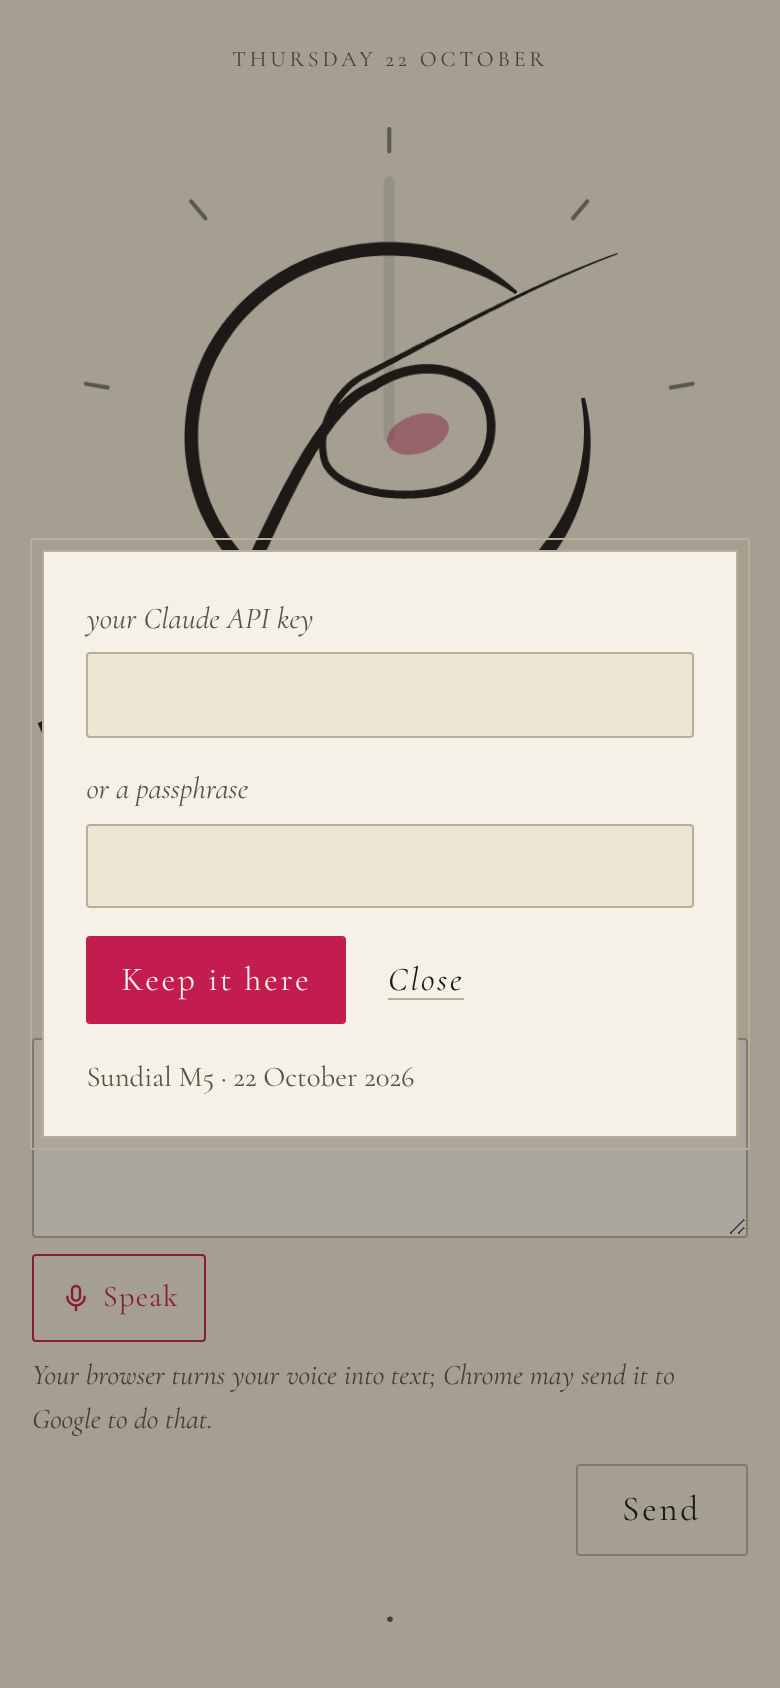
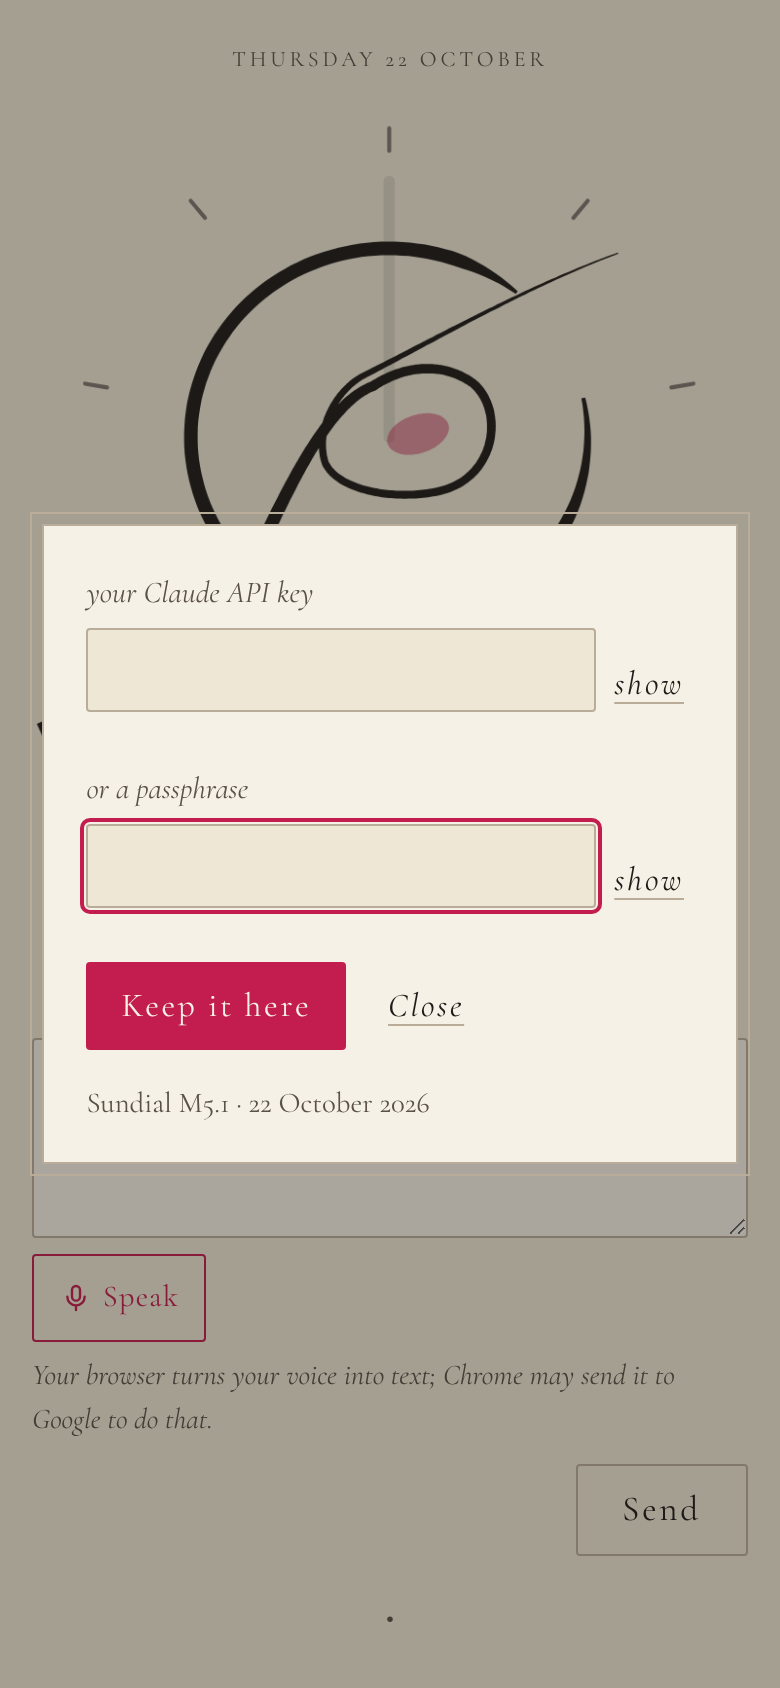
Show what's typed: a quiet show/hide beside each hidden field
Matthew couldn't see the passphrase he was typing on his phone. Each
hidden field (the key, the passphrase, the key to share, the secret
word) now has a quiet "show" beside it that turns it to plain text and
back ("hide"); every field hides again when its card closes.

Checks: M5 29, M4 27, M3 18, M2 matrix 16, M1 34.

Claude-Session: https://claude.ai/code/session_018PPdCn7BnYvdkungaLbvbi

diff --git a/sundial.html b/sundial.html
@@ -528,6 +528,19 @@
     border-radius: 2px;
     padding: 0.35rem 1.1rem;
   }
+  /* A hidden field and its quiet "show" beside it. */
+  .sd-field {
+    display: flex;
+    gap: 0.3rem;
+    align-items: center;
+  }
+  .sd-field input {
+    flex: 1;
+    min-width: 0;
+  }
+  .sd-card .sd-show {
+    min-width: 2.75rem;
+  }
   .sd-card .sd-quiet {
     font-style: italic;
     color: var(--ink);
@@ -744,7 +757,7 @@
    drawn as absence, and the words they spoke go back into the box. */
 (function () {
   var MODEL = 'claude-sonnet-5-5';          // a current Sonnet
-  var VERSION = 'Sundial M5 · 22 October 2026';
+  var VERSION = 'Sundial M5.1 · 22 October 2026';
   var TURNS_A_DAY = 40;
   var KEY = 'sundial.key', TURNS = 'sundial.turns', NAME = 'sundial.name';
   // The roster's steward (plan 6.6): before the roster is first sealed, only
@@ -1166,6 +1179,36 @@
       $('find-go').disabled = false;
       fname.focus();
     });
+  });
+
+  // ---- Show what's typed ----------------------------------------------------------
+  // Each hidden field (a key, a passphrase, a word) has a quiet "show" beside
+  // it, so a person can see what they type; it hides again when its card
+  // closes.
+  var hiders = [];
+  Array.prototype.forEach.call(document.querySelectorAll('input[type="password"]'), function (input) {
+    var row = document.createElement('div'), btn = document.createElement('button');
+    row.className = 'sd-field';
+    input.parentNode.insertBefore(row, input);
+    row.appendChild(input);
+    btn.type = 'button';
+    btn.className = 'sd-quiet sd-show';
+    btn.id = input.id + '-show';
+    btn.setAttribute('aria-controls', input.id);
+    function shown(on) {
+      input.type = on ? 'text' : 'password';
+      btn.textContent = on ? 'hide' : 'show';
+    }
+    shown(false);
+    btn.addEventListener('click', function () {
+      shown(input.type === 'password');
+      input.focus();
+    });
+    row.appendChild(btn);
+    hiders.push(function () { shown(false); });
+  });
+  Array.prototype.forEach.call(document.querySelectorAll('dialog'), function (d) {
+    d.addEventListener('close', function () { hiders.forEach(function (h) { h(); }); });
   });
 
   // ---- The quiet corner -----------------------------------------------------------
